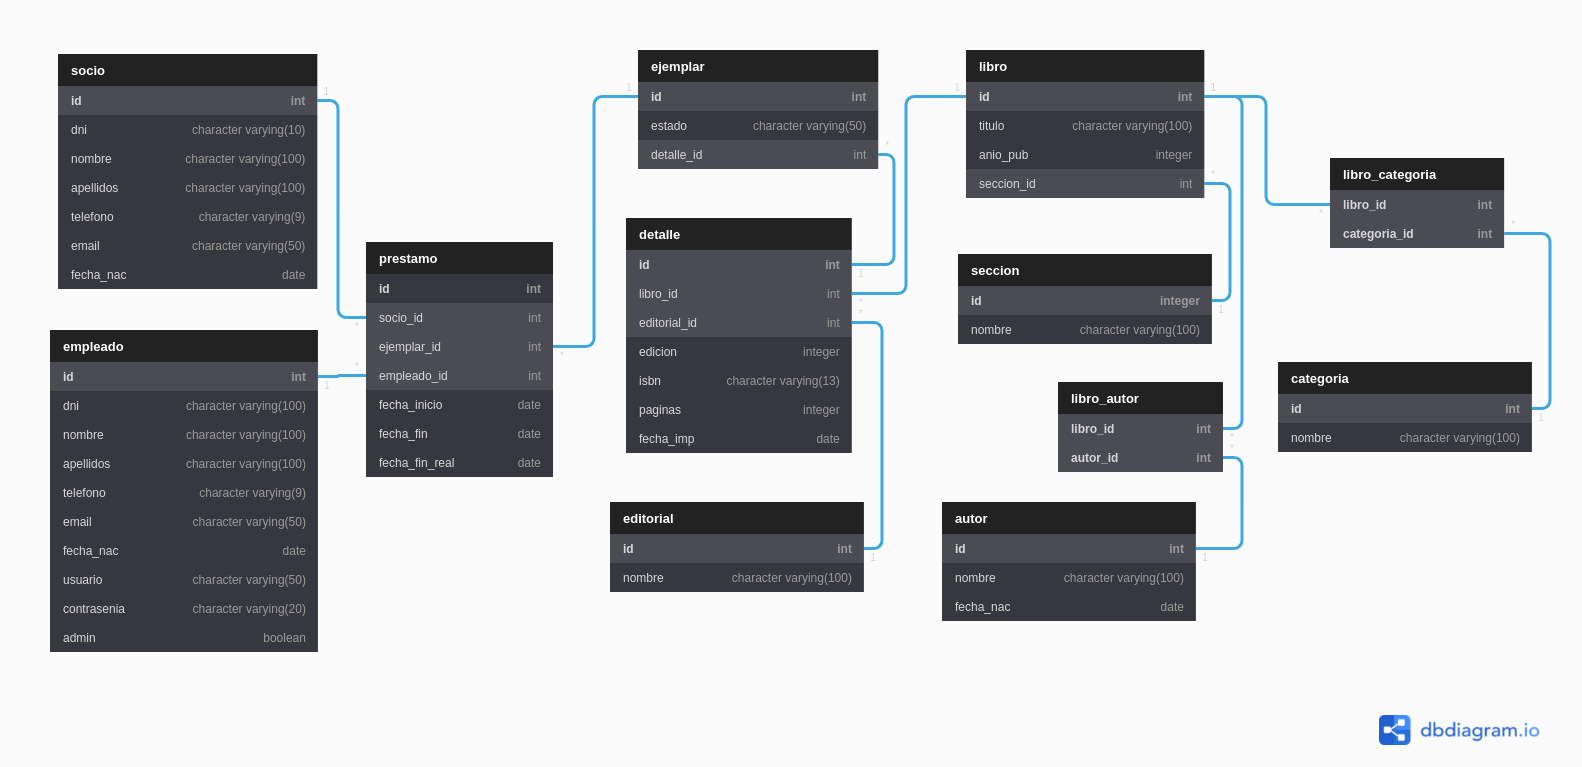
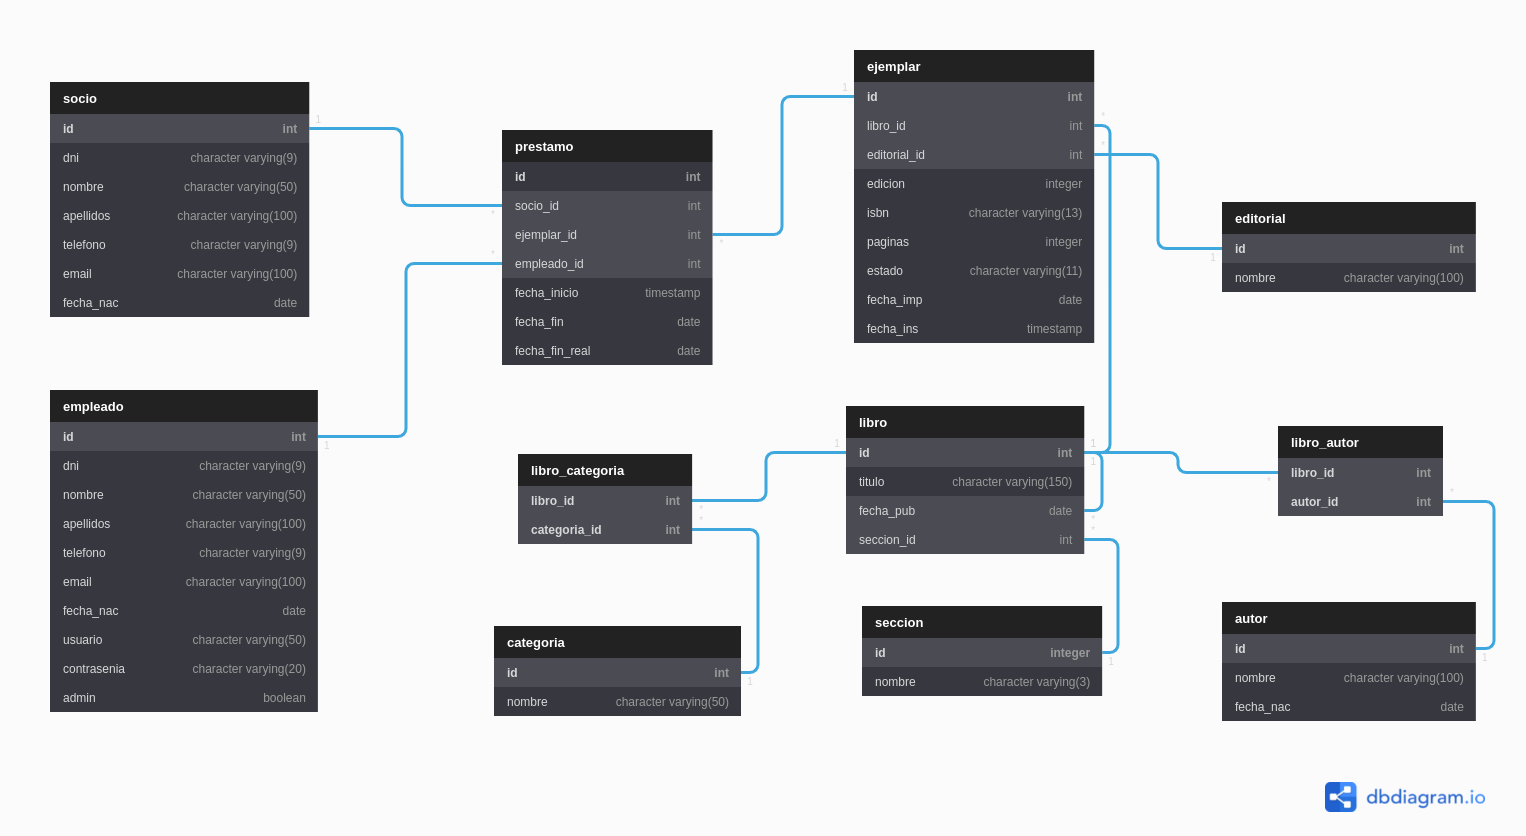
Comienza CRUD ejemplares, modifica esquema bbdd

diff --git a/papyrus/src/main/resources/templates/ejemplares/insertarEjemplar.html b/papyrus/src/main/resources/templates/ejemplares/insertarEjemplar.html
@@ -1,0 +1,45 @@
+<!DOCTYPE html>
+<html xmlns="http://www.w3.org/1999/xhtml" xmlns:layout="http://www.ultraq.net.nz/thymeleaf/layout"
+    layout:decorate="~{layouts/general}" lang="es">
+
+<head>
+    <meta charset="UTF-8" />
+    <meta http-equiv="X-UA-Compatible" content="IE=edge" />
+    <meta name="viewport" content="width=device-width, initial-scale=1.0" />
+    <title>Gestión de biblioteca</title>
+</head>
+
+<body>
+    <section layout:fragment="custom-content">
+        <h3 class="mt-4">Insertar ejemplar</h3>
+        <form th:action="@{/ejemplares/insertar}" th:object="${ejemplar}" method="post">
+            <fieldset>
+                <div class="form-group">
+                    <label class="form-label mt-4">Selecciona un libro o
+                        <a th:href="@{/libros/insertar}" class="btn btn-info btn-sm">inserta nuevo<span
+                                data-feather="plus-square"></span></a></label>
+                    <select class="form-select">
+                        <option th:each="libro : ${listaLibros}" th:value="${libro.id}"
+                            th:text="${libro.titulo}"></option>
+                    </select>
+                </div>
+                <div class="form-group">
+                    <label class="form-label mt-4">Selecciona una editorial o
+                        <a th:href="@{/editoriales/insertar}" class="btn btn-info btn-sm">inserta nuevo<span
+                                data-feather="plus-square"></span></a></label>
+                    <select class="form-select">
+                        <option th:each="editorial : ${listaEditoriales}" th:value="${editorial.id}"
+                            th:text="${editorial.nombre}"></option>
+                    </select>
+                </div>
+                <div class="form-group">
+                    <label class="form-label mt-4">Edición</label>
+                    <input type="number" class="form-control" th:field="*{nombre}" placeholder="" />
+                </div>
+                <button type="submit" class="btn btn-primary mt-4">Insertar</button>
+            </fieldset>
+        </form>
+    </section>
+</body>
+
+</html>

diff --git a/papyrus/src/main/resources/templates/ejemplares/listaEjemplar.html b/papyrus/src/main/resources/templates/ejemplares/listaEjemplar.html
@@ -1,0 +1,49 @@
+<!DOCTYPE html>
+<html xmlns="http://www.w3.org/1999/xhtml" xmlns:layout="http://www.ultraq.net.nz/thymeleaf/layout"
+  layout:decorate="~{layouts/general}" lang="es">
+
+<head>
+  <meta charset="UTF-8" />
+  <meta http-equiv="X-UA-Compatible" content="IE=edge" />
+  <meta name="viewport" content="width=device-width, initial-scale=1.0" />
+  <title>Gestión de biblioteca</title>
+</head>
+<body>
+  <section layout:fragment="custom-content">
+    <h3 class="mt-4">Lista de ejemplares <a th:href="@{/ejemplares/insertar}" class="btn btn-info btn-sm"><span data-feather="plus-square"></span></a></h3>
+    <div class="table-responsive">
+      <table class="table table-striped table-sm">
+        <thead>
+          <tr>
+            <th>ID</th>
+            <th>Libro</th>
+            <th>Editorial</th>
+            <th>Edición</th>
+            <th>ISBN</th>
+            <th>Páginas</th>
+            <th>Estado</th>
+            <th>Fecha de impresión</th>
+            <th>Acciones</th>
+          </tr>
+        </thead>
+        <tbody>
+          <tr th:each="ejemplar : ${listaEjemplares}">
+            <td th:text="${ejemplar.id}"></td>
+            <td th:text="${ejemplar.detalle.libro.titulo}"></td>
+            <td th:text="${ejemplar.detalle.editorial.nombre}"></td>
+            <td th:text="${ejemplar.detalle.edicion}"></td>
+            <td th:text="${ejemplar.detalle.isbn}"></td>
+            <td th:text="${ejemplar.detalle.paginas}"></td>
+            <td th:text="${ejemplar.estado}"></td>
+            <td th:text="${ejemplar.detalle.fecha_imp}"></td>
+            <td>
+              <a th:href="@{/ejemplares/editar/{id}(id=${ejemplar.id})}" class="btn btn-warning btn-sm"><span data-feather="edit"></span></a>
+              <a th:href="@{/ejemplares/eliminar/{id}(id=${ejemplar.id})}" class="btn btn-danger btn-sm"><span data-feather="trash-2"></span></a>
+            </td>
+          </tr>
+        </tbody>
+      </table>
+    </div>
+  </section>
+</body>
+</html>

diff --git a/papyrus/src/main/java/com/papyrus/ejemplar/EjemplarController.java b/papyrus/src/main/java/com/papyrus/ejemplar/EjemplarController.java
@@ -1,0 +1,61 @@
+package com.papyrus.ejemplar;
+
+import java.util.List;
+
+import com.papyrus.detalle.Detalle;
+import com.papyrus.editorial.Editorial;
+import com.papyrus.editorial.EditorialService;
+import com.papyrus.libro.Libro;
+import com.papyrus.libro.LibroService;
+
+import org.springframework.beans.factory.annotation.Autowired;
+import org.springframework.stereotype.Controller;
+import org.springframework.ui.Model;
+import org.springframework.web.bind.annotation.GetMapping;
+import org.springframework.web.bind.annotation.PostMapping;
+
+@Controller
+public class EjemplarController
+{
+    @Autowired
+    private EjemplarService ejemplarService;
+
+    @Autowired
+    private LibroService libroService;
+
+    @Autowired
+    private EditorialService editorialService;
+
+    @GetMapping("ejemplares/lista")
+    public String mostrarListaEjemplar(Model model)
+    {
+        List<Ejemplar> listaEjemplares = ejemplarService.findAll();
+        model.addAttribute("listaEjemplares", listaEjemplares);
+
+        return "ejemplares/listaEjemplar";
+    }
+
+    @GetMapping("ejemplares/insertar")
+	public String mostrarInsertarEjemplar(Model model)
+	{
+		Ejemplar ejemplar = new Ejemplar();
+        Detalle detalle = new Detalle();
+        List<Libro> listaLibros = libroService.findAll();
+        List<Editorial> listaEdtoriales = editorialService.findAll();
+        
+		model.addAttribute(ejemplar);
+        model.addAttribute(detalle);
+        model.addAttribute(listaLibros);
+        model.addAttribute(listaEdtoriales);
+		
+		return "ejemplares/insertarEjemplar";
+	}
+	
+	@PostMapping("ejemplares/insertar")
+	public String insertarEjemplar(Ejemplar ejemplar)
+	{
+        
+
+		return "redirect:/ejemplares/lista";
+	}
+}
